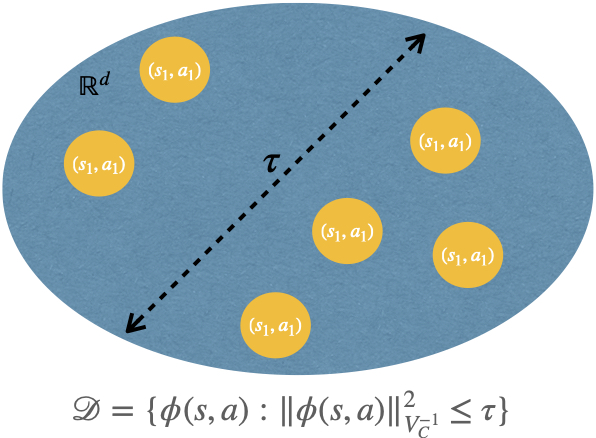
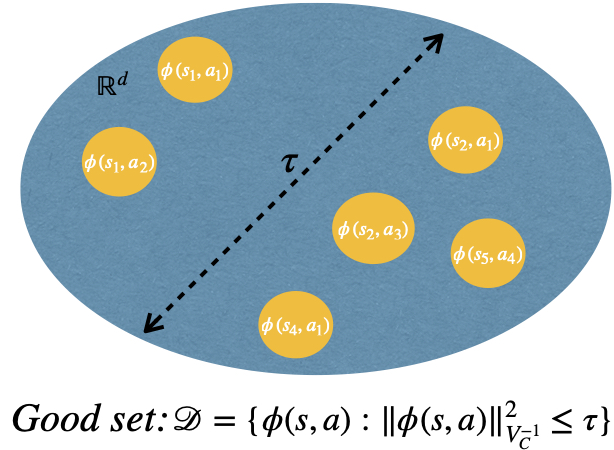
Updated aistats image

diff --git a/publication/aistats2023/index.html b/publication/aistats2023/index.html
@@ -1,6 +1,6 @@
 <!DOCTYPE html>
 <!-- This site was created with Wowchemy. https://www.wowchemy.com -->
-<!-- Last Published: April 3, 2023 --><html lang="en-us" >
+<!-- Last Published: April 5, 2023 --><html lang="en-us" >
 
 
 <head>
@@ -1014,9 +1014,9 @@
 </div>
 
 
-<div class="article-header article-container featured-image-wrapper mt-4 mb-4" style="max-width: 596px; max-height: 438px;">
+<div class="article-header article-container featured-image-wrapper mt-4 mb-4" style="max-width: 614px; max-height: 450px;">
   <div style="position: relative">
-    <img src="/publication/aistats2023/featured_hu4f310762d9ae916ebde320d797626a49_223868_720x2500_fit_q75_h2_lanczos.webp" width="596" height="438" alt="" class="featured-image">
+    <img src="/publication/aistats2023/featured_hud244ac7042aadc0a77f1c1644fc3aaa1_234769_720x2500_fit_q75_h2_lanczos.webp" width="614" height="450" alt="" class="featured-image">
     
   </div>
 </div>

diff --git a/index.html b/index.html
@@ -1,6 +1,6 @@
 <!DOCTYPE html>
 <!-- This site was created with Wowchemy. https://www.wowchemy.com -->
-<!-- Last Published: April 3, 2023 --><html lang="en-us" >
+<!-- Last Published: April 5, 2023 --><html lang="en-us" >
 
 
 <head>
@@ -1313,7 +1313,7 @@
     
       
       <a href="/publication/aistats2023/" >
-        <img src="/publication/aistats2023/featured_hu4f310762d9ae916ebde320d797626a49_223868_150x0_resize_q75_h2_lanczos.webp" height="110" width="150"
+        <img src="/publication/aistats2023/featured_hud244ac7042aadc0a77f1c1644fc3aaa1_234769_150x0_resize_q75_h2_lanczos.webp" height="110" width="150"
             alt="Efficient Planning in Combinatorial Action Spaces with Applications to Cooperative Multi-Agent Reinforcement Learning" loading="lazy">
       </a>
     

diff --git a/publication-type/3/index.html b/publication-type/3/index.html
@@ -1,6 +1,6 @@
 <!DOCTYPE html>
 <!-- This site was created with Wowchemy. https://www.wowchemy.com -->
-<!-- Last Published: April 3, 2023 --><html lang="en-us" >
+<!-- Last Published: April 5, 2023 --><html lang="en-us" >
 
 
 <head>
@@ -964,7 +964,7 @@
     
       
       <a href="/publication/aistats2023/" >
-        <img src="/publication/aistats2023/featured_hu4f310762d9ae916ebde320d797626a49_223868_150x0_resize_q75_h2_lanczos.webp" height="110" width="150"
+        <img src="/publication/aistats2023/featured_hud244ac7042aadc0a77f1c1644fc3aaa1_234769_150x0_resize_q75_h2_lanczos.webp" height="110" width="150"
             alt="Efficient Planning in Combinatorial Action Spaces with Applications to Cooperative Multi-Agent Reinforcement Learning" loading="lazy">
       </a>
     

diff --git a/post/writing-technical-content/index.html b/post/writing-technical-content/index.html
@@ -1,6 +1,6 @@
 <!DOCTYPE html>
 <!-- This site was created with Wowchemy. https://www.wowchemy.com -->
-<!-- Last Published: April 3, 2023 --><html lang="en-us" >
+<!-- Last Published: April 5, 2023 --><html lang="en-us" >
 
 
 <head>
@@ -1069,7 +1069,7 @@ data.head()
 
 
 
-<div id="chart-736984215" class="chart"></div>
+<div id="chart-279465183" class="chart"></div>
 <script>
   (function() {
     let a = setInterval( function() {
@@ -1079,7 +1079,7 @@ data.head()
       clearInterval( a );
 
       Plotly.d3.json("./line-chart.json", function(chart) {
-        Plotly.plot('chart-736984215', chart.data, chart.layout, {responsive: true});
+        Plotly.plot('chart-279465183', chart.data, chart.layout, {responsive: true});
       });
     }, 500 );
   })();

diff --git a/404.html b/404.html
@@ -1,6 +1,6 @@
 <!DOCTYPE html>
 <!-- This site was created with Wowchemy. https://www.wowchemy.com -->
-<!-- Last Published: April 3, 2023 --><html lang="en-us" >
+<!-- Last Published: April 5, 2023 --><html lang="en-us" >
 
 
 <head>

diff --git a/categories/index.html b/categories/index.html
@@ -1,6 +1,6 @@
 <!DOCTYPE html>
 <!-- This site was created with Wowchemy. https://www.wowchemy.com -->
-<!-- Last Published: April 3, 2023 --><html lang="en-us" >
+<!-- Last Published: April 5, 2023 --><html lang="en-us" >
 
 
 <head>

diff --git a/category/demo/index.html b/category/demo/index.html
@@ -1,6 +1,6 @@
 <!DOCTYPE html>
 <!-- This site was created with Wowchemy. https://www.wowchemy.com -->
-<!-- Last Published: April 3, 2023 --><html lang="en-us" >
+<!-- Last Published: April 5, 2023 --><html lang="en-us" >
 
 
 <head>

diff --git a/category/教程/index.html b/category/教程/index.html
@@ -1,6 +1,6 @@
 <!DOCTYPE html>
 <!-- This site was created with Wowchemy. https://www.wowchemy.com -->
-<!-- Last Published: April 3, 2023 --><html lang="en-us" >
+<!-- Last Published: April 5, 2023 --><html lang="en-us" >
 
 
 <head>

diff --git a/event/index.html b/event/index.html
@@ -1,6 +1,6 @@
 <!DOCTYPE html>
 <!-- This site was created with Wowchemy. https://www.wowchemy.com -->
-<!-- Last Published: April 3, 2023 --><html lang="en-us" >
+<!-- Last Published: April 5, 2023 --><html lang="en-us" >
 
 
 <head>

diff --git a/hobby/chess/index.html b/hobby/chess/index.html
@@ -1,6 +1,6 @@
 <!DOCTYPE html>
 <!-- This site was created with Wowchemy. https://www.wowchemy.com -->
-<!-- Last Published: April 3, 2023 --><html lang="en-us" >
+<!-- Last Published: April 5, 2023 --><html lang="en-us" >
 
 
 <head>

diff --git a/hobby/index.html b/hobby/index.html
@@ -1,6 +1,6 @@
 <!DOCTYPE html>
 <!-- This site was created with Wowchemy. https://www.wowchemy.com -->
-<!-- Last Published: April 3, 2023 --><html lang="en-us" >
+<!-- Last Published: April 5, 2023 --><html lang="en-us" >
 
 
 <head>

diff --git a/post/getting-started/index.html b/post/getting-started/index.html
@@ -1,6 +1,6 @@
 <!DOCTYPE html>
 <!-- This site was created with Wowchemy. https://www.wowchemy.com -->
-<!-- Last Published: April 3, 2023 --><html lang="en-us" >
+<!-- Last Published: April 5, 2023 --><html lang="en-us" >
 
 
 <head>
